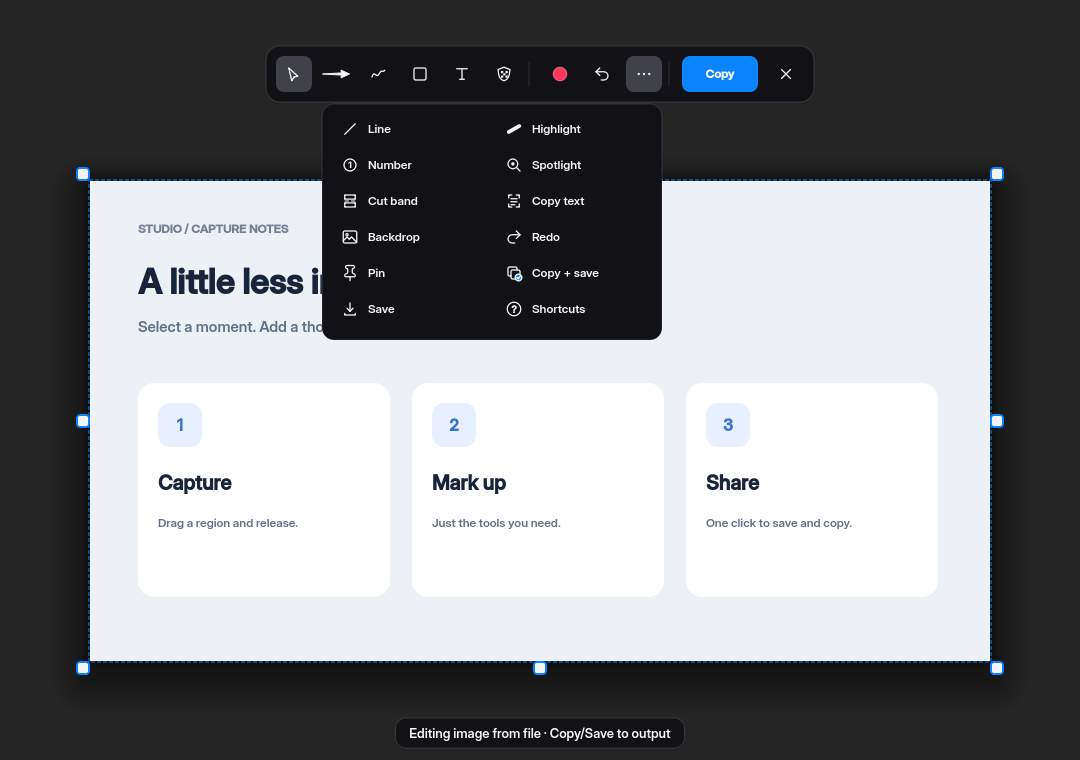
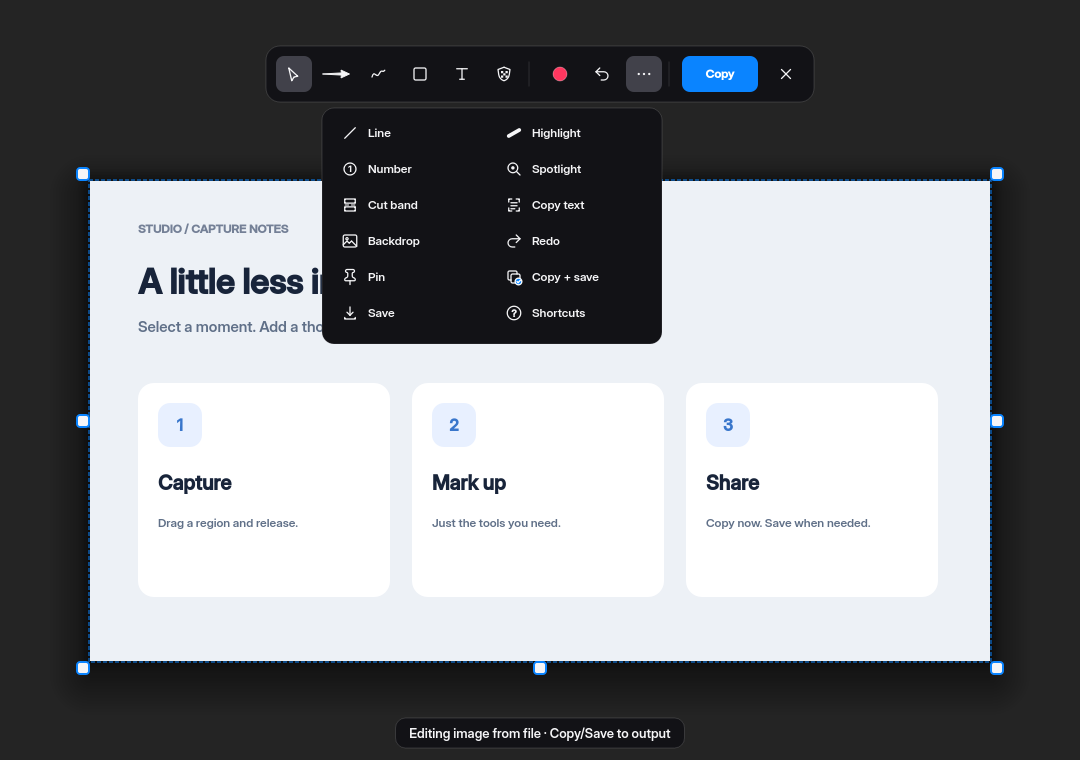
Refresh README and visuals to match project style

diff --git a/README.md b/README.md
@@ -1,66 +1,178 @@
-# Omacap
+<p align="center">
+  <img src="assets/banner.svg" alt="Omacap — capture a moment, copy it anywhere." width="100%" />
+</p>
 
-A compact screenshot app for Omarchy and Hyprland, forked from
-[Omasnap](https://github.com/omacom/omasnap) 1.24.0 (`6208946`).
+<p align="center">
+  <a href="https://omarchy.org"><img src="https://img.shields.io/badge/Omarchy-native-86b7ff?style=flat-square&amp;labelColor=1b2330" alt="Made for Omarchy" /></a>
+  <a href="https://hypr.land"><img src="https://img.shields.io/badge/Hyprland-Wayland-86b7ff?style=flat-square&amp;labelColor=1b2330" alt="Wayland and Hyprland" /></a>
+  <a href="LICENSE"><img src="https://img.shields.io/badge/license-MIT-e8eddf?style=flat-square&amp;labelColor=1b2330" alt="MIT license" /></a>
+</p>
 
-![Omacap editor](assets/preview-editor.png)
+<p align="center">
+  A compact screenshot and annotation app for Omarchy.<br />
+  Capture, mark up, copy — save only when you choose.
+</p>
 
-Drag an area, click a window, or click empty space for the focused monitor.
-Captures copy automatically; files are saved only when you choose Save. A small preview lets you edit on demand.
+<p align="center">
+  <a href="#install">Install</a> ·
+  <a href="#use">Use</a> ·
+  <a href="#configure">Configure</a> ·
+  <a href="#development">Development</a>
+</p>
 
-The editor uses a compact dock with select/crop, arrow, draw, shape, text,
-redact, color, undo, and **Copy**. Extra tools and output actions live under
-**…**. Buttons have 6 px gaps, wider group spacing, and padding around the dock.
-Keyboard help opens with **?** or **… → Shortcuts**.
-Capture notifications offer **Save** and **Edit**. Edit keeps Save under **…**.
+## See it in action
 
-Omacap has its own binary, icon, desktop entry, config, runtime locks, and
-temporary action data. It keeps no screenshot history and runs alongside
-Omasnap and the unrelated window-snapping plugin. Screen recording stays with Omarchy.
+![Omacap's compact annotation editor](assets/preview-editor.png)
 
-## Build and run
+- **Copy first.** Captures go straight to the system clipboard. Save a file only when you need one.
+- **Edit on demand.** A compact toolbar for arrows, drawing, shapes, text, and redaction. Extra tools live under **…**.
+- **Save deliberately.** Use **Save** on the notification or **… → Save** in the editor. Copy from the editor stays silent.
+- **Keep native pixels.** Region, window, fullscreen, and scrolling captures preserve detail on scaled displays.
 
-Requires Qt 6.8+, LayerShellQt, Wayland protocols, libdeflate, CMake, Ninja,
-and a C++23 compiler. Runtime tools: `hyprctl`, `wl-copy`, `wl-paste`;
-`tesseract` is needed only for OCR. See [dependencies](docs/dependencies.md).
+Native **Wayland + Hyprland**. Follows your Omarchy theme, including live changes.
+
+## Install
+
+```sh
+git clone https://github.com/hudrucan/omacap.git
+cd omacap
+./install-omarchy
+```
+
+The installer installs missing dependencies through Omarchy, builds in
+`~/.cache/omacap/build`, and installs the app under `~/.local`.
+Use `OMACAP_PREFIX` to choose another install prefix.
+
+Omacap is a native app. Add its capture binding in `~/.config/hypr/bindings.lua`:
+
+```lua
+o.rebind("PRINT", "Screenshot", "omacap --notify")
+```
+
+This replaces the current Print binding. Reload and check with
+`hyprctl reload` and `hyprctl configerrors`. Launch **Omacap** from the app launcher
+or run `omacap --notify` to use it without a binding.
+
+## Use
+
+**Drag** an area, **click** a window, or click empty desktop space for the focused monitor.
+With `--notify`, the copied image has **Edit** and **Save** actions.
+Without it, a floating preview offers editing, copying, pinning, and file drag;
+it fades after 7 seconds of idle time. Hovering pauses the countdown.
+
+The editor's main action is **Copy**. Save lives under **… → Save**.
+Press **?** or choose **… → Shortcuts** for keyboard help.
+
+| Key | Action |
+| :--- | :--- |
+| Enter / Ctrl+C | Copy only |
+| Ctrl+S / Ctrl+Shift+S | Save / Save As |
+| V / A / F | Select or crop / arrow / draw |
+| R / E | Rectangle / ellipse |
+| T / D / O | Text / redact / OCR |
+| Ctrl+Z / Ctrl+Shift+Z | Undo / redo |
+| Ctrl+P | Pin on screen |
+| W | Switch editor between overlay and window |
+| ? | Toggle keyboard help |
+| Esc | Dismiss a menu or close |
+
+<details>
+<summary><strong>More tools and output actions</strong></summary>
+
+![Omacap's More menu](assets/preview-more.png)
+
+Line, highlighter, numbered markers, spotlight, cut band, OCR, backdrops, redo,
+pinning, Copy + Save, and Save are available under **…**.
+
+</details>
+
+<details>
+<summary><strong>Capture from the terminal</strong></summary>
+
+```sh
+omacap --capture-region --notify
+omacap --capture-window --notify
+omacap --capture-fullscreen --copy
+omacap --scroll
+omacap --editor window
+omacap --file /path/to/image.png
+omacap --clipboard
+```
+
+Use `--copy` or `--save` to output directly. Combine them to copy and save.
+`omacap --help` lists the available modes and options.
+
+</details>
+
+## Configure
+
+Defaults work out of the box. Optional settings live in
+`~/.config/omacap/omacap.conf`.
+
+<details>
+<summary><strong>Output and editor presentation</strong></summary>
+
+```ini
+[output]
+autosave = false
+directory = ~/Pictures/Screenshots
+
+[editor]
+mode = overlay
+```
+
+These are the defaults. Set `mode = window` for a normal compositor window.
+`OMACAP_SCREENSHOT_DIR` overrides the save directory.
+
+</details>
+
+<details>
+<summary><strong>Temporary data</strong></summary>
+
+Omacap keeps no screenshot history. Notification and preview actions use temporary
+source images, edit logs, and thumbnails under `$XDG_RUNTIME_DIR/omacap/handoffs/`.
+Documents older than 15 minutes are pruned when a new one is published.
+Copy from the editor creates no additional handoff document.
+
+</details>
+
+<details>
+<summary><strong>Update</strong></summary>
+
+From your checkout:
+
+```sh
+git pull --ff-only
+./install-omarchy
+```
+
+</details>
+
+## Development
+
+Built with **C++23 and Qt 6.8+**, LayerShellQt, Wayland, and libdeflate.
+Runtime tools include `hyprctl`, `wl-copy`, and `wl-paste`; OCR uses `tesseract`.
+See [dependencies](docs/dependencies.md) for the full list.
 
 ```sh
 make build
-./build/omacap
-./build/omacap --file /absolute/path/to/image.png
-./build/omacap --capture-region --copy
+make check
 ```
 
-`./install-omarchy` installs dependencies and the app under `~/.local`.
-It does not change Hyprland bindings. `OMACAP_PREFIX` selects another prefix.
+Checks build the app, run headless interaction tests, and run available static
+analysis. Generated test screenshots stay in `build/smoke-output/`.
 
-## Controls
+Omacap is a UI-focused fork of [Omasnap](https://github.com/omacom/omasnap),
+starting at `6208946`. Original MIT copyright and bundled font/icon notices
+are retained. See the [changelog](CHANGELOG.md) and [font notices](assets/FONTS.md).
+The PNG metadata key `Omasnap logical size` is shared with upstream.
 
-| Key | Action |
-| --- | --- |
-| Esc | Cancel / close; dismiss an open More menu first |
-| Enter | Copy only |
-| V / A / F | Select / arrow / draw |
-| R / E / T / D | Rectangle / ellipse / text / redact |
-| Ctrl+Z / Ctrl+Shift+Z | Undo / redo |
-| Ctrl+C / Ctrl+S | Copy only / save only |
-| Ctrl+P | Pin |
-| ? | Toggle shortcuts |
+An optional [notification hover patch](patches/omarchy-notifications-hover.patch)
+is included for a user-owned clone of Omarchy's notification plugin.
 
-Optional INI config: `~/.config/omacap/omacap.conf`. Captures go to
-`~/Pictures/Screenshots`; `OMACAP_SCREENSHOT_DIR` overrides the destination.
-Edit/Save notifications use temporary runtime data, separate from saved files.
-The upstream capture/editor flags remain available through `--help`.
+Found a bug? [Open an issue](https://github.com/hudrucan/omacap/issues) with your
+Omarchy and Hyprland versions and steps to reproduce.
 
-## Checks and attribution
+---
 
-`make check` builds, runs the headless interaction suite, and runs available
-static analysis. Generated screenshots stay in `build/smoke-output/`.
-
-Original MIT copyright and bundled font/icon notices are retained. The
-[changelog](CHANGELOG.md) records upstream history. The PNG metadata key
-`Omasnap logical size` stays unchanged to preserve shared image-scale metadata.
-
-The local Omarchy notification hover fix is preserved in
-[`patches/omarchy-notifications-hover.patch`](patches/omarchy-notifications-hover.patch)
-for the user-owned clone of `omarchy.notifications`.
+<p align="center">Made for <a href="https://omarchy.org">Omarchy</a> · <a href="LICENSE">MIT licensed</a></p>
